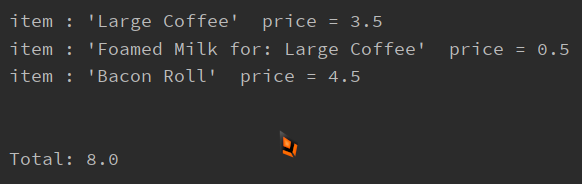
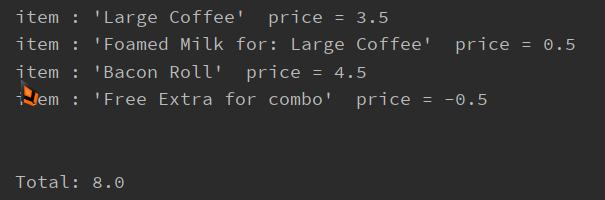
Show discount detail in receipt - refactor

diff --git a/src/main/java/util/PrintUtil.java b/src/main/java/util/PrintUtil.java
@@ -1,0 +1,68 @@
+package util;
+
+import application.BeverageService;
+import domain.Product;
+import domain.Receipt;
+
+import java.util.ArrayList;
+import java.util.List;
+import java.util.Scanner;
+
+public class PrintUtil {
+    public static void printExtrasMenu() {
+        StringBuilder menuString = new StringBuilder();
+        menuString.append("|   Do you like some extra?       |\n");
+        menuString.append("| Options:                        |\n");
+        menuString.append("|        1. Extra Milk            |\n");
+        menuString.append("|        2. Foamed Milk           |\n");
+        menuString.append("|        3. Special Roasted       |\n");
+        menuString.append("|        4. None                  |");
+        System.out.println(menuString.toString());
+    }
+
+    public static void printReceipt(List<Product> productList) {
+        Receipt actualReceipt = new Receipt(new ArrayList<>(productList));
+        Double total = actualReceipt.getTotal();
+        System.out.println("Total: " + total);
+    }
+
+    public static void printMainMenu() {
+        StringBuilder menuString = new StringBuilder();
+        menuString.append("|   MENU SELECTION COFFEE SHOP    |\n");
+        menuString.append("| Options:                        |\n");
+        menuString.append("|        1. Large Coffee          |\n");
+        menuString.append("|        2. Medium Coffee         |\n");
+        menuString.append("|        3. Small Coffee          |\n");
+        menuString.append("|        4. Orange juice          |\n");
+        menuString.append("|        5. Bacon Roll            |\n");
+        menuString.append("|        6. Exit                  |\n");
+        menuString.append("choose one!\n");
+        System.out.println(menuString.toString());
+    }
+
+    public static void printExtraMenu(Scanner sd, Product actualBeverage, List<Product> productList) {
+        PrintUtil.printExtrasMenu();
+        int num = sd.nextInt();
+        switch (num) {
+            case 1:
+                Product extraMilk = BeverageService.createExtraOrder(actualBeverage, "extraMilk");
+                productList.add(extraMilk);
+                System.out.println("\n");
+                break;
+            case 2:
+                Product foamedMilk = BeverageService.createExtraOrder(actualBeverage, "foamedMilk");
+                productList.add(foamedMilk);
+                System.out.println("\n");
+                break;
+            case 3:
+                Product roastedCoffee = BeverageService.createExtraOrder(actualBeverage, "roastCoffee");
+                productList.add(roastedCoffee);
+                System.out.println("\n");
+                break;
+            case 4:
+                break;
+            default:
+                System.out.println("Please select a valid option");
+        }
+    }
+}

diff --git a/src/main/java/userInterface/ReceiptCreator.java b/src/main/java/userInterface/ReceiptCreator.java
@@ -1,0 +1,60 @@
+package userInterface;
+
+import application.BeverageService;
+import application.SnackService;
+import domain.Product;
+import util.PrintUtil;
+
+import java.util.ArrayList;
+import java.util.List;
+import java.util.Scanner;
+
+public class ReceiptCreator {
+    private static List<Product> productList;
+
+    public static void main(String[] args) {
+        productList = new ArrayList<>();
+        boolean exit = false;
+
+        do {
+            PrintUtil.printMainMenu();
+            Scanner sd = new Scanner(System.in);
+            int num = sd.nextInt();
+            switch (num) {
+                case 1:
+                    Product bigCoffee = BeverageService.createBeverageOrder("largeCoffee");
+                    productList.add(bigCoffee);
+                    PrintUtil.printExtraMenu(sd, bigCoffee, productList);
+                    break;
+
+                case 2:
+                    Product mediumCoffee = BeverageService.createBeverageOrder("mediumCoffee");
+                    productList.add(mediumCoffee);
+                    PrintUtil.printExtraMenu(sd, mediumCoffee, productList);
+                    break;
+
+                case 3:
+                    Product smallCoffee = BeverageService.createBeverageOrder("smallCoffee");
+                    productList.add(smallCoffee);
+                    PrintUtil.printExtraMenu(sd, smallCoffee, productList);
+                    break;
+
+                case 4:
+                    Product orangeJuice = BeverageService.createBeverageOrder("orangeJuice");
+                    productList.add(orangeJuice);
+                    break;
+
+                case 5:
+                    Product baconRoll = SnackService.createSnackOrder("baconRoll");
+                    productList.add(baconRoll);
+                    break;
+                case 6:
+                    exit = true;
+                    break;
+                default:
+                    System.out.println("Please select a valid option");
+            }
+        } while (!exit);
+        PrintUtil.printReceipt(productList);
+    }
+}

diff --git a/src/main/java/domain/Receipt.java b/src/main/java/domain/Receipt.java
@@ -1,5 +1,7 @@
 package domain;
 
+import application.DiscountFactory;
+
 import java.util.List;
 
 public class Receipt {
@@ -14,6 +16,8 @@ public class Receipt {
     public Double getTotal() {
         applyExtraDiscount();
         applyFreeBeverageBonus();
+        productList.forEach(System.out::println);
+        System.out.println("\n");
         return productList.stream()
                 .mapToDouble(Product::getPrice)
                 .sum();
@@ -28,7 +32,7 @@ public class Receipt {
                     .filter(item -> item.type == ProductType.EXTRA)
                     .findAny()
                     .get();
-            productWithDiscount.price = 0.0;
+            productList.add(DiscountFactory.createDiscount("Free Extra for combo", productWithDiscount.price));
         }
     }
 
@@ -48,7 +52,7 @@ public class Receipt {
                     .filter(item -> item.type == ProductType.BEVERAGE)
                     .findFirst()
                     .get();
-            freeProduct.price = 0.0;
+            productList.add(DiscountFactory.createDiscount("Free 5 beverage discount", freeProduct.price));
         }
     }
 }

diff --git a/src/main/java/application/DiscountFactory.java b/src/main/java/application/DiscountFactory.java
@@ -1,0 +1,10 @@
+package application;
+
+import domain.Product;
+import domain.promotion.Promotion;
+
+public class DiscountFactory {
+    public static Product createDiscount (String description, Double price){
+        return new Promotion(description, price);
+    }
+}

diff --git a/src/main/java/domain/promotion/Promotion.java b/src/main/java/domain/promotion/Promotion.java
@@ -1,0 +1,11 @@
+package domain.promotion;
+
+import domain.Product;
+
+public class Promotion extends Product {
+    public Promotion(String description, Double price) {
+        super();
+        this.price = price * -1;
+        this.name = description;
+    }
+}

diff --git a/src/test/java/userInterface/ReceiptCreatorTest.java b/src/test/java/userInterface/ReceiptCreatorTest.java
@@ -1,3 +1,5 @@
+package userInterface;
+
 import application.BeverageService;
 import application.SnackService;
 import domain.Product;

diff --git a/README.md b/README.md
@@ -7,7 +7,7 @@ It's developed to follow a Service Design approach, based using techniques like 
 
 * How Run this App:
   - 
-  You will need run ReceiptCreator class.
+  You will need run userInterface.ReceiptCreator class.
   
 * Documentation:
   - 
